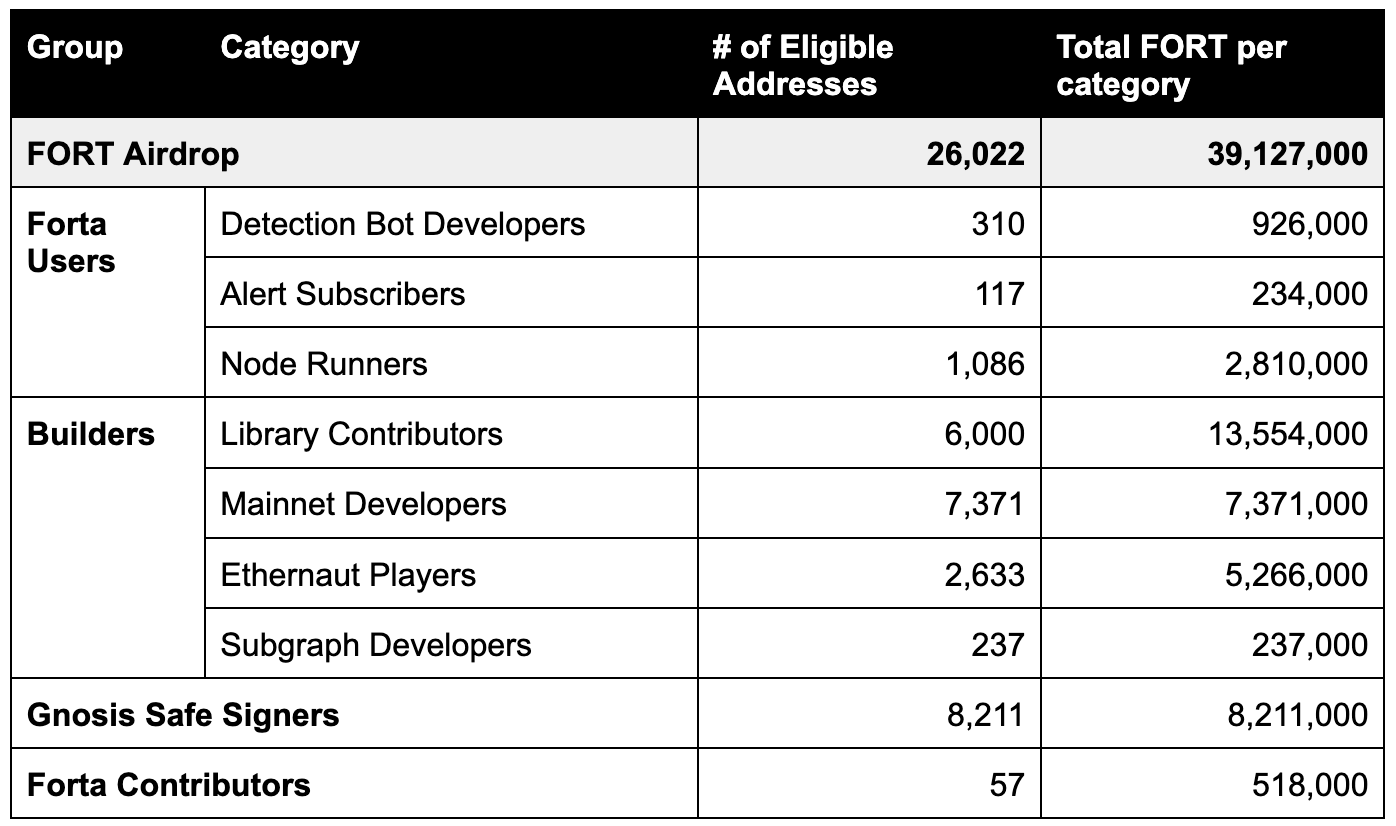
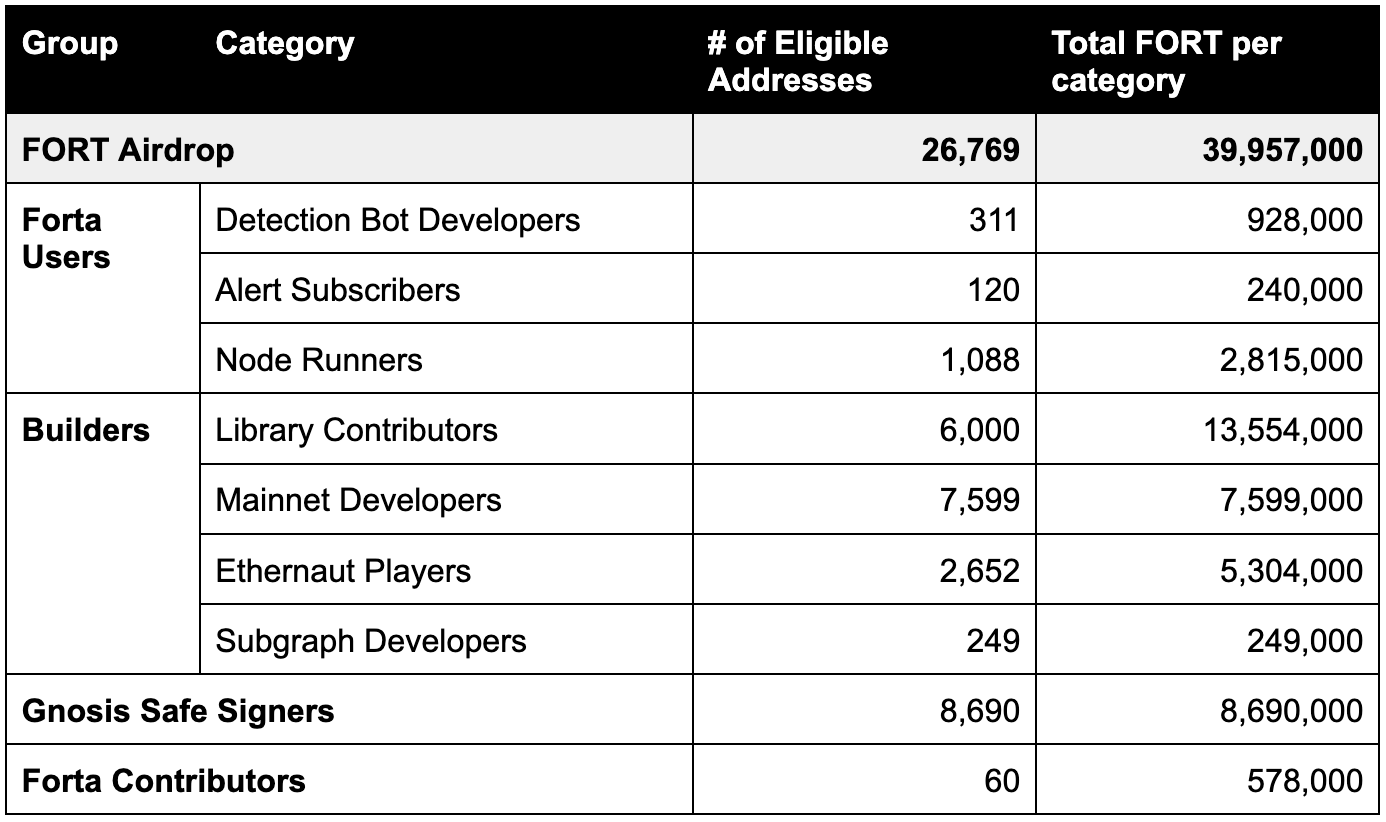
airdrop changes

Changed region(s): [[0.0, 0.0, 1.0, 1.0], [0.0, 0.7908, 0.2482, 0.9732]]

diff --git a/docs/airdrop.md b/docs/airdrop.md
@@ -4,7 +4,7 @@
 
 Read the Forta Airdrop announcement [here](https://forta.org/blog/fort-airdrop/).
 
-The FORT Airdrop rewards early Forta contributors and seeds the broader Web3 security community with FORT tokens so they can begin building on the Forta Network. 26,022 addresses are eligible to claim FORT Tokens in the Forta Airdrop, including four key groups: Forta Users, Forta Contributors, Builders, and Gnosis Safe Signers.
+The FORT Airdrop rewards early Forta contributors and seeds the broader Web3 security community with FORT tokens so they can begin building on the Forta Network. 26,769 addresses are eligible to claim FORT Tokens in the Forta Airdrop, including four key groups: Forta Users, Forta Contributors, Builders, and Gnosis Safe Signers.
 
 Each category and subcategory is discrete and cumulative: an address can be eligible for multiple categories and allocated a sum of tokens for each accordingly. The allocation and criteria are broken down as follows:
 
@@ -38,17 +38,17 @@ Node runners are crucial to the Network’s security and growth by operating the
 
 ## Builders
 
-These are those who have created or contributed to key aspects of Web3’s infrastructure and security. This includes, but is not limited to, Ethereum mainnet developers, library contributors, Ethernaut players, and Subgraph developers.
+These are individuals who have created or contributed to key aspects of Web3’s infrastructure and security. This includes, but is not limited to, Ethereum mainnet developers, library contributors, Ethernaut players, and Subgraph developers.
 
 ### Mainnet Developers
 
-Inspired by [Project Galaxy’s initiative](https://blog.galaxy.eco/project-galaxy-announces-shadowy-super-coder-nft-pack-with-300-million-worth-of-perks-c5cb9ea2d18a) to support innovative developers, top developers in the Ethereum ecosystem are eligible for the FORT Airdrop. These are defined as those who deployed smart contracts with the most active interactions.
+Inspired by [Project Galaxy’s initiative](https://blog.galaxy.eco/project-galaxy-announces-shadowy-super-coder-nft-pack-with-300-million-worth-of-perks-c5cb9ea2d18a) to support innovative developers, top developers in the Ethereum ecosystem are eligible for the FORT Airdrop. These are defined as developers who deployed smart contracts with the most active interactions.
 
 ![Mainnet Developers](airdrop-table5.png)
 
 ### Library Contributors
 
-This group includes developers who actively contributed to over 900 [Web3 GitHub repositories](https://docs.google.com/spreadsheets/d/1VgLQIiceycJf0i6gofPTWi05UCfJJ4PURBEvkSCLG-E/edit?usp=sharing). This list comprises Web3 libraries, public goods, and top projects that are vital to Forta ecosystem. Thousands of people worked to build and maintain these projects over the years, some even working completely for free in an effort to create a better and safer decentralized economy.
+This group includes developers who actively contributed to over 900 [Web3 GitHub repositories](https://docs.google.com/spreadsheets/d/1VgLQIiceycJf0i6gofPTWi05UCfJJ4PURBEvkSCLG-E/edit?usp=sharing). This list comprises Web3 libraries, public goods, and top projects that are vital to the Forta ecosystem. Thousands of people worked to build and maintain these projects over the years, some even working completely for free in an effort to create a better and safer decentralized economy.
 
 ![Library Contributors](airdrop-table6.png)
 *Each subcategory is discrete and cumulative: an address can be eligible for multiple and allocated a sum of tokens accordingly.*
@@ -66,9 +66,9 @@ The Graph Protocol subgraph developers are valuable contributors to Web3, facili
 
 ![Subgraph Developers](airdrop-table8.png)
 
-## Multisig Signers
+## Gnosis Safe Signers
 
-Multisig signers can be key decision-makers, DAO leaders, and/or builders that have access to large pools of assets or control over critical protocol functions.
+Gnosis Safe Multisig signers can be key decision-makers, DAO leaders, and/or builders that have access to large pools of assets or control over critical protocol functions.
 
 ![Multisig Signers](airdrop-table9.png)
 
